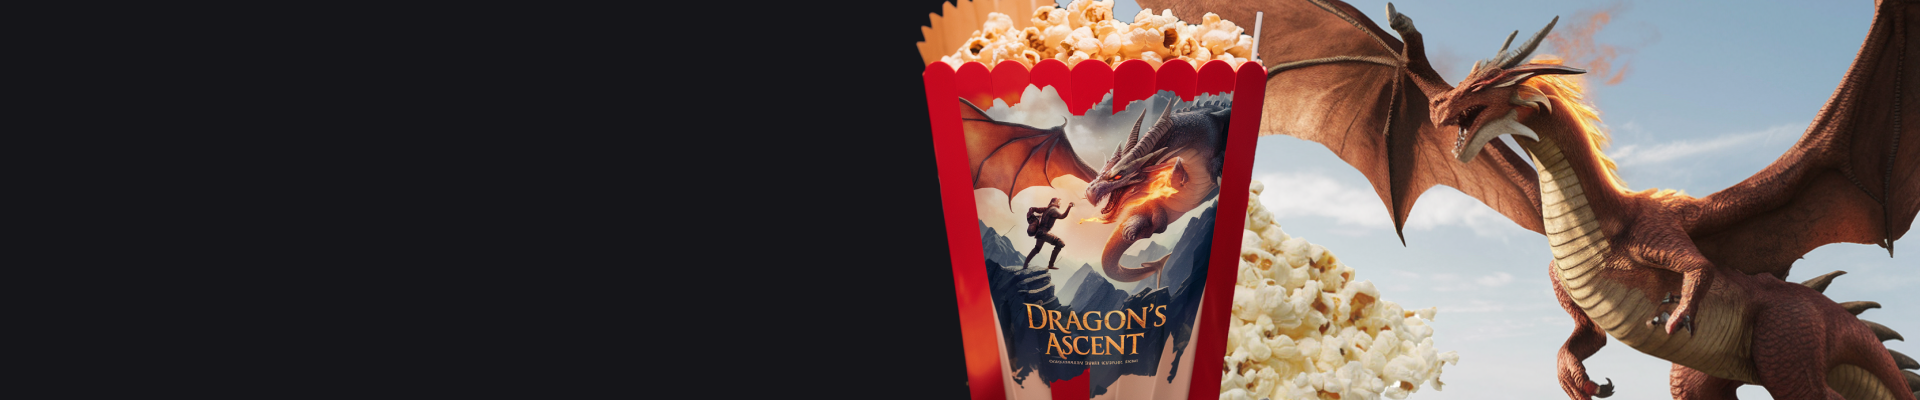
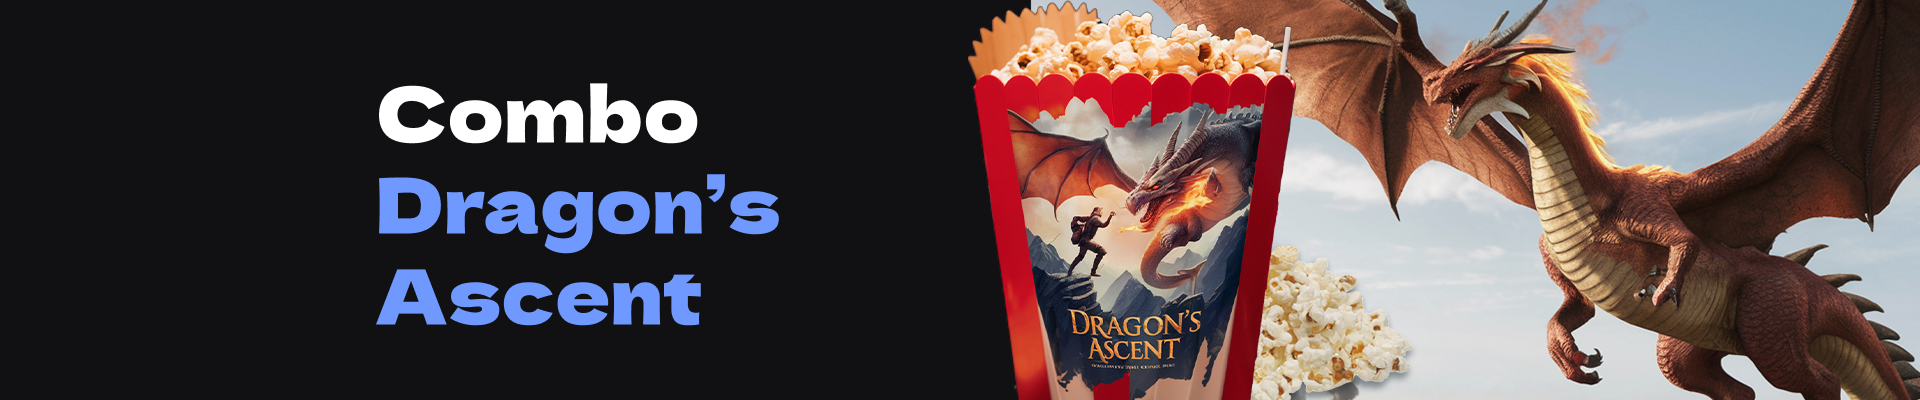
Seção de Newsletter

diff --git a/src/components/Newsletter/index.tsx b/src/components/Newsletter/index.tsx
@@ -1,0 +1,22 @@
+import Button from "../Button";
+import Fieldset from "../Fieldset";
+import InputText from "../InputText";
+import styles from "./Newslatter.module.css";
+
+const Newslatter = () => {
+  return (
+    <section className={styles.newsletter}>
+      <h2 className={styles.titulo}>Inscreva-se para ganhar descontos!</h2>
+      <form className={styles.form}>
+        <Fieldset>
+          <InputText placeholder="Digite o seu melhor email" />
+        </Fieldset>
+        <Button type="submit" variant="default">
+          Inscrever-se
+        </Button>
+      </form>
+    </section>
+  );
+};
+
+export default Newslatter;

diff --git a/src/components/Newsletter/Newslatter.module.css b/src/components/Newsletter/Newslatter.module.css
@@ -1,0 +1,25 @@
+.newsletter {
+  background-color: var(--azul-claro);
+  padding: var(--padding-xxl) 0;
+}
+
+.form {
+  display: flex;
+  align-items: center;
+  justify-content: center;
+  gap: var(--gap-s);
+}
+
+.titulo {
+  color: var(--preto);
+  font-family: var(--fonte-titulo);
+  font-size: var(--font-size-l);
+  text-align: center;
+  margin-bottom: var(--margin-l);
+}
+
+.error {
+  color: #e63946;
+  font-size: var(--font-size-s);
+  margin-top: var(--margin-s);
+}

diff --git a/src/App.tsx b/src/App.tsx
@@ -1,6 +1,7 @@
 import Banner from "./components/Banner";
 import Header from "./components/Header";
 import MovieSection from "./components/MovieSection";
+import Newslatter from "./components/Newsletter";
 
 function App() {
   return (
@@ -8,6 +9,8 @@ function App() {
       <Header />
       <Banner src="./banner-desktop.png" alt="Banner" />
       <MovieSection />
+      <Banner src="./banner-combo-desktop.png" alt="Combo" />
+      <Newslatter />
     </>
   );
 }
